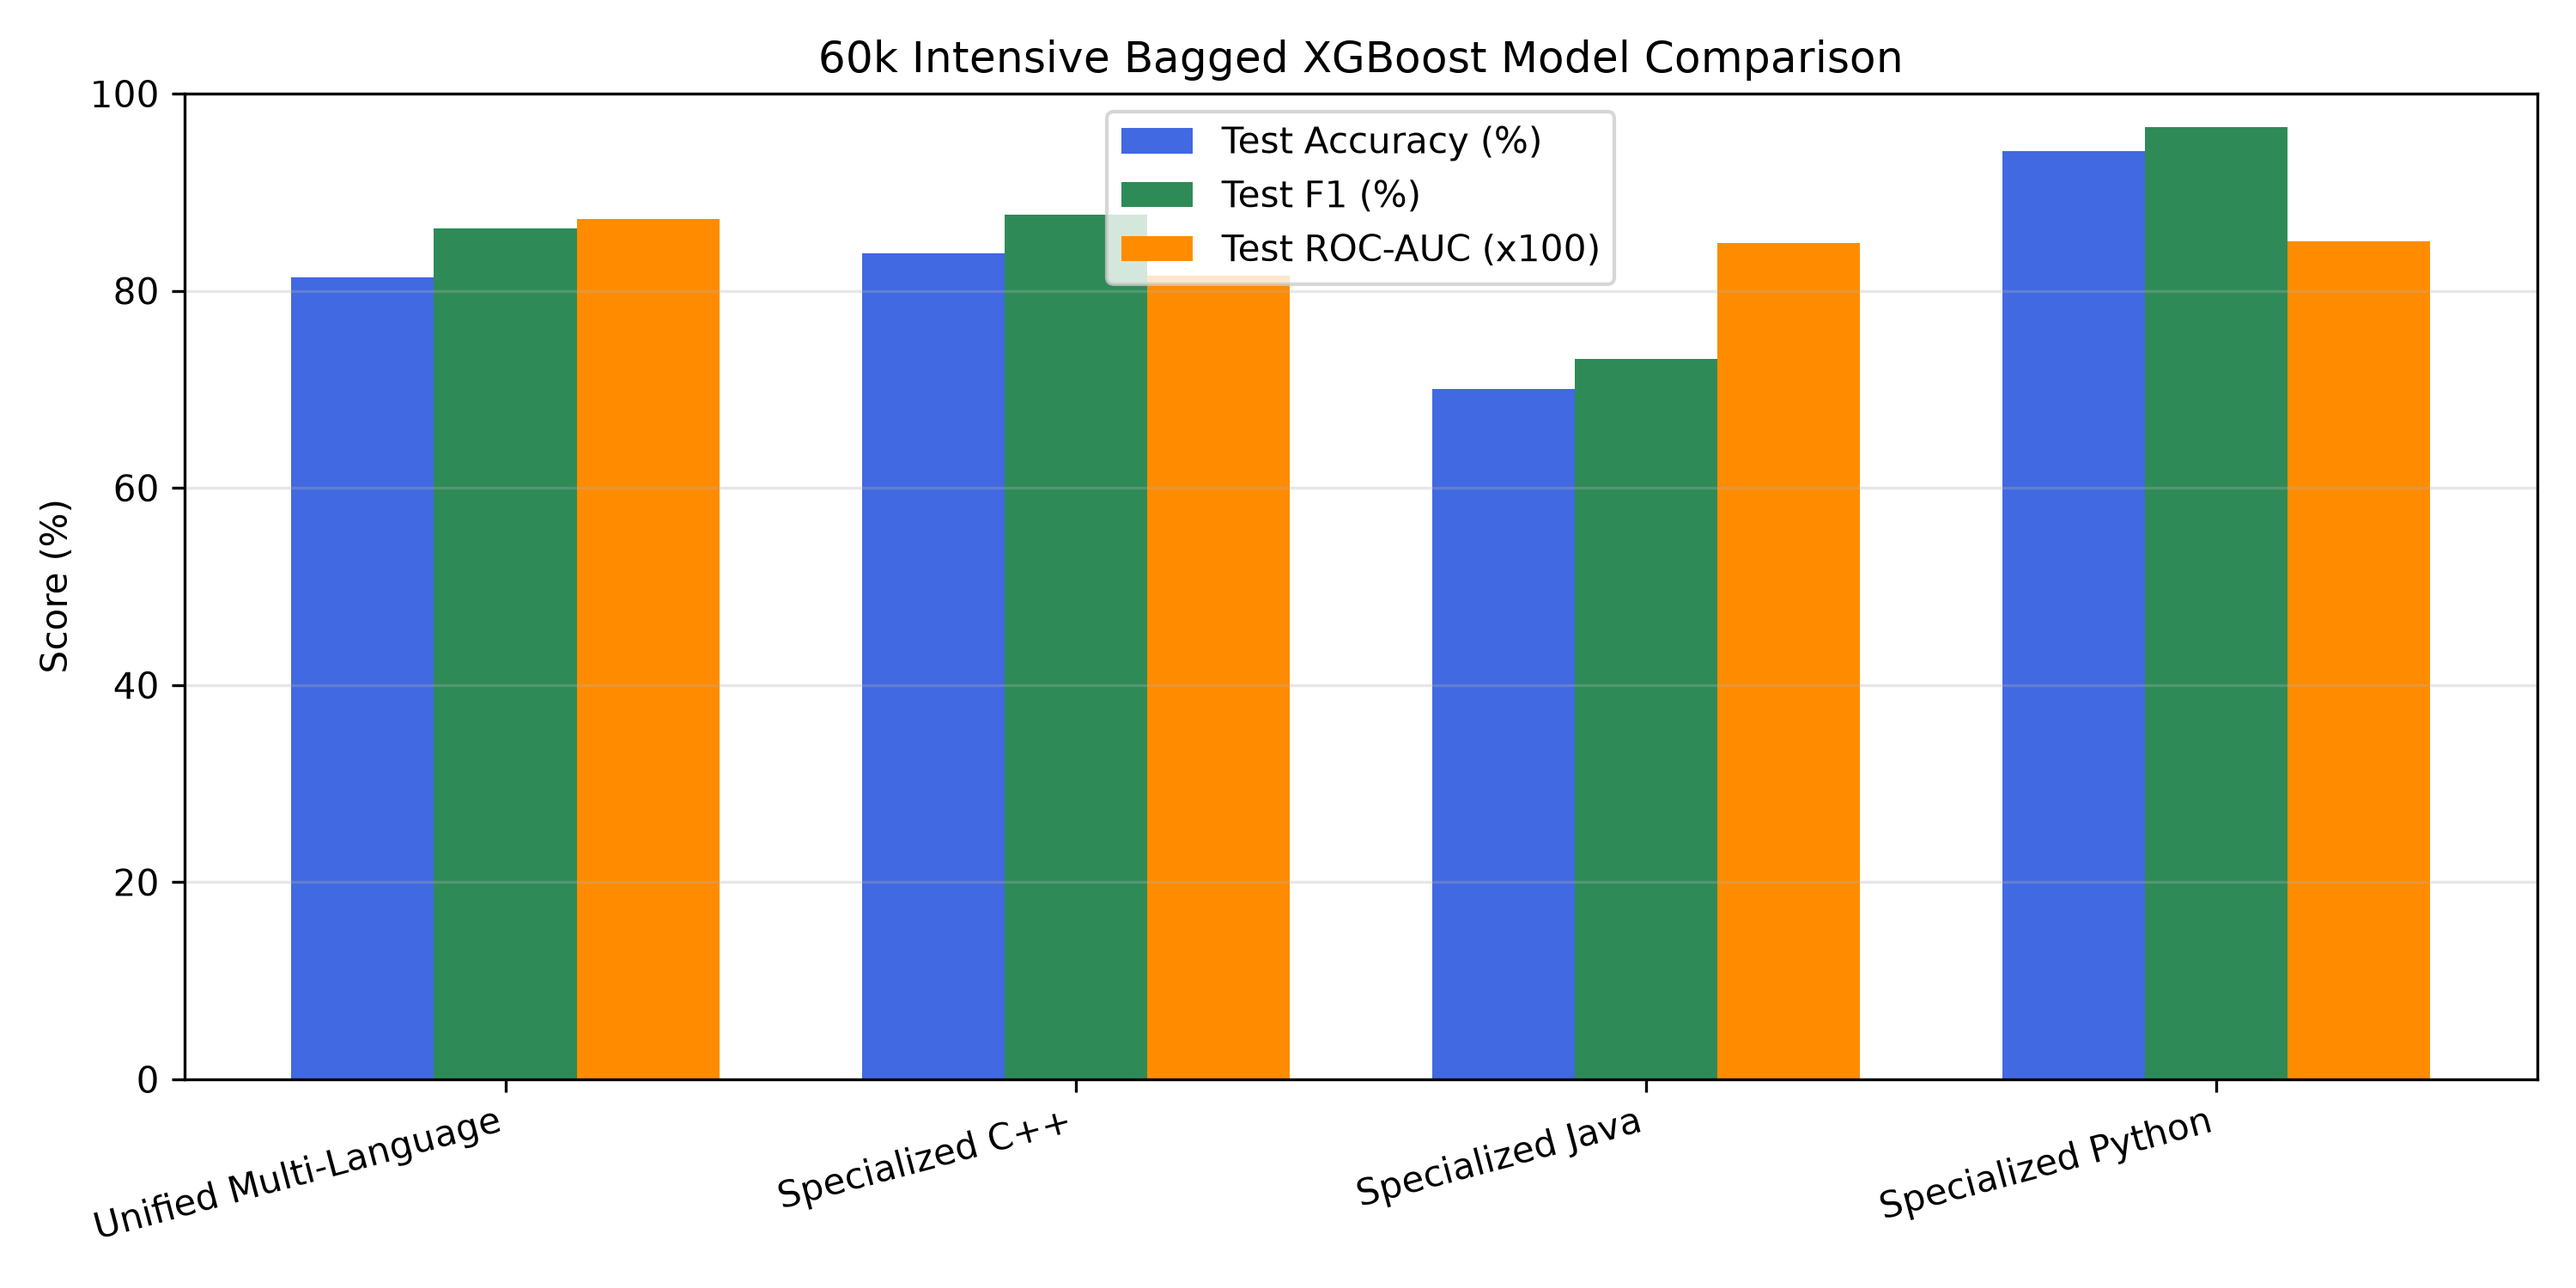
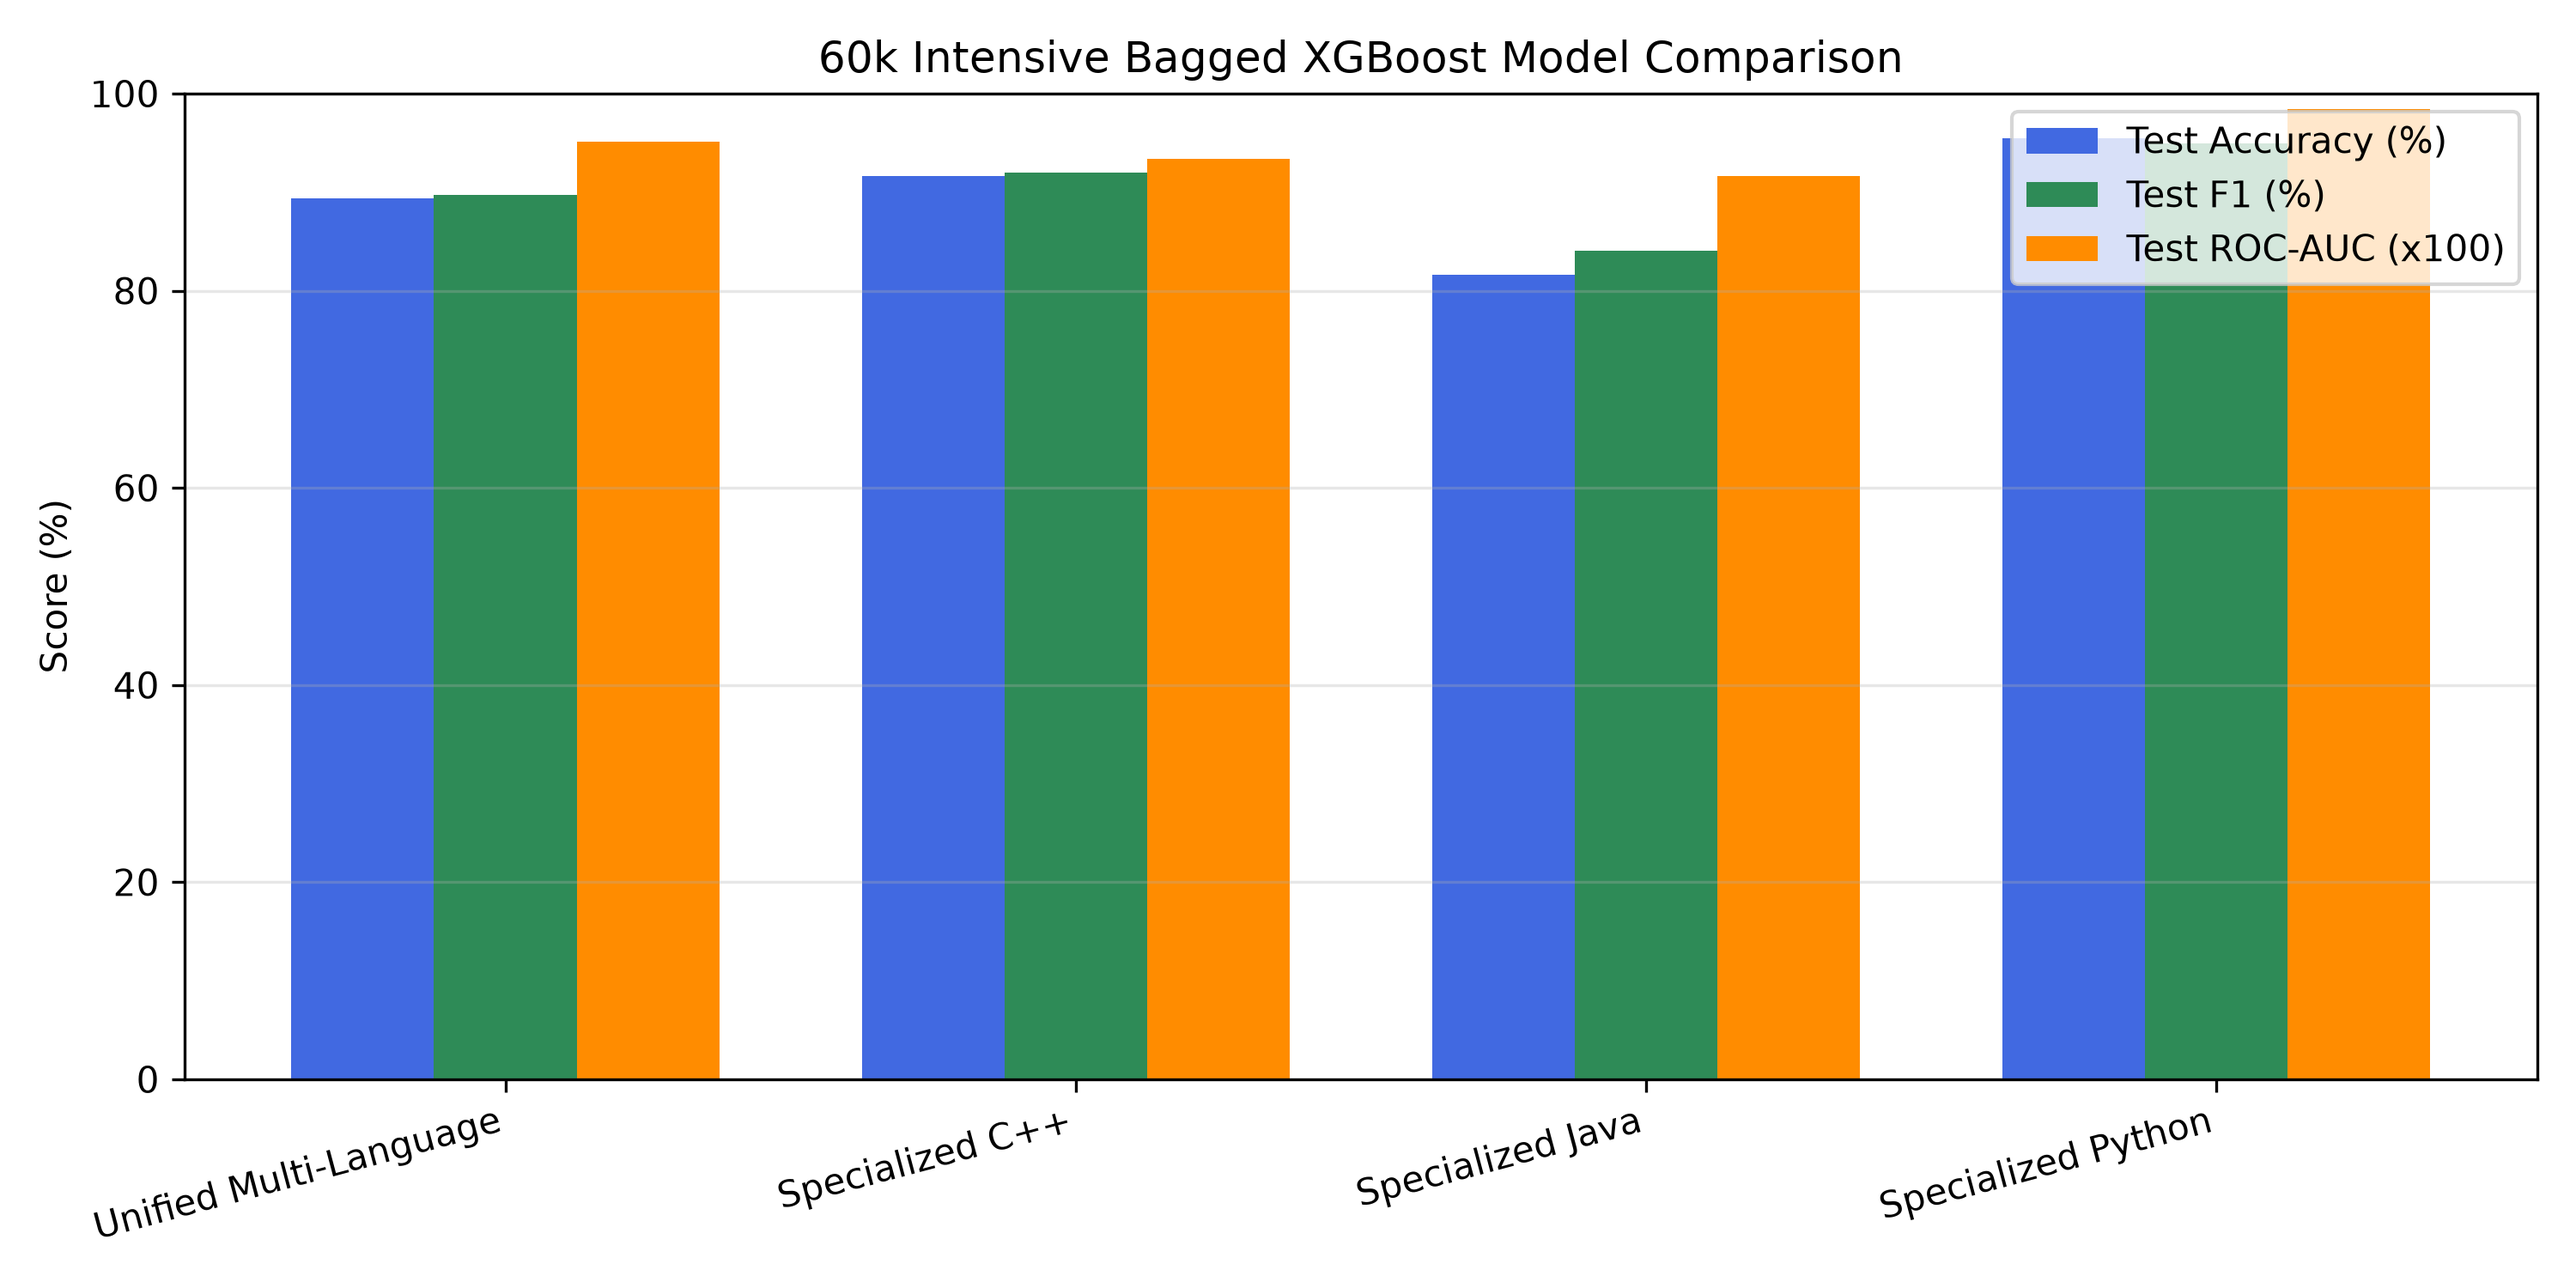
feat: implement intensive 5-seed bagged ensemble training pipeline with Treelite support for 60k dataset evaluation

Changed region(s): [[0.31, 0.092, 0.744, 0.3067], [0.775, 0.0613, 0.992, 0.2453], [0.093, 0.092, 0.279, 0.2147]]

diff --git a/model-training/train_intensive_bagged_ensemble.py b/model-training/train_intensive_bagged_ensemble.py
@@ -23,12 +23,13 @@ from sklearn.metrics import (
     classification_report,
     confusion_matrix,
     f1_score,
+    precision_recall_curve,
     precision_score,
     recall_score,
     roc_auc_score,
     roc_curve,
 )
-from sklearn.model_selection import GroupKFold, GroupShuffleSplit
+from sklearn.model_selection import GroupKFold, GroupShuffleSplit, StratifiedGroupKFold
 import treelite
 import treelite.frontend
 import xgboost as xgb
@@ -134,11 +135,12 @@ def get_feature_cols(include_language: bool = True) -> list[str]:
 
 
 def find_optimal_threshold(y_true: np.ndarray, y_prob: np.ndarray) -> float:
-    fpr, tpr, thresholds = roc_curve(y_true, y_prob)
-    j_scores = tpr - fpr
-    best_idx = np.argmax(j_scores)
-    best_thresh = float(thresholds[best_idx])
-    return max(0.2, min(0.8, best_thresh))
+    """Find threshold that maximizes F1 score on validation set."""
+    precision, recall, thresholds = precision_recall_curve(y_true, y_prob)
+    f1_scores = 2 * (precision * recall) / np.maximum(precision + recall, 1e-8)
+    best_idx = np.argmax(f1_scores)
+    best_thresh = float(thresholds[min(best_idx, len(thresholds) - 1)])
+    return max(0.35, min(0.65, best_thresh))
 
 
 def train_bagged_ensemble(
@@ -156,7 +158,7 @@ def train_bagged_ensemble(
 
     unique_groups = len(np.unique(groups_train))
     n_splits = min(5, unique_groups)
-    cv_splitter = GroupKFold(n_splits=n_splits)
+    cv_splitter = StratifiedGroupKFold(n_splits=n_splits, shuffle=True, random_state=42)
 
     # Compute class weight
     neg_count = (y_train == 0).sum()
@@ -207,6 +209,10 @@ def train_bagged_ensemble(
     print(f"5-Fold CV Ensemble (Optimal Thresh={opt_threshold:.3f}): Acc={cv_acc:.4f}, F1={cv_f1:.4f}, ROC-AUC={cv_roc:.4f}")
 
     # Held-Out Unseen Test Problem Evaluation
+    test_preds_std = (test_probs_all >= 0.50).astype(int)
+    test_acc_std = accuracy_score(y_test, test_preds_std)
+    test_f1_std = f1_score(y_test, test_preds_std, zero_division=0)
+
     test_preds_opt = (test_probs_all >= opt_threshold).astype(int)
     test_acc_opt = accuracy_score(y_test, test_preds_opt)
     test_prec = precision_score(y_test, test_preds_opt, zero_division=0)
@@ -215,11 +221,12 @@ def train_bagged_ensemble(
     test_roc = roc_auc_score(y_test, test_probs_all) if len(np.unique(y_test)) > 1 else 1.0
 
     print(f"\nHeld-Out Test Results (Unseen Problems):")
-    print(f"  Accuracy (Optimized {opt_threshold:.2f}): {test_acc_opt:.4f}")
-    print(f"  Precision               : {test_prec:.4f}")
-    print(f"  Recall                  : {test_rec:.4f}")
-    print(f"  F1-Score                : {test_f1_opt:.4f}")
-    print(f"  ROC-AUC                 : {test_roc:.4f}")
+    print(f"  Accuracy (Standard 0.50)  : {test_acc_std:.4f} (F1: {test_f1_std:.4f})")
+    print(f"  Accuracy (Calibrated {opt_threshold:.2f}): {test_acc_opt:.4f}")
+    print(f"  Precision                  : {test_prec:.4f}")
+    print(f"  Recall                     : {test_rec:.4f}")
+    print(f"  F1-Score                   : {test_f1_opt:.4f}")
+    print(f"  ROC-AUC                    : {test_roc:.4f}")
 
     # Save Primary Model & Bagged Ensemble
     safe_name = name.lower().replace(" ", "_").replace("+", "p")
@@ -273,10 +280,10 @@ def main():
 
     df_full = pd.concat([df, lang_dummies], axis=1)
 
-    # 80/20 Problem-Grouped Split
+    # Stratified 80/20 Problem-Grouped Split (Guarantees class balance while isolating problems)
     groups = df_full["problem_id"]
-    gss = GroupShuffleSplit(n_splits=1, test_size=0.2, random_state=args.seed)
-    train_idx, test_idx = next(gss.split(df_full, df_full["target"], groups))
+    sgkf = StratifiedGroupKFold(n_splits=5, shuffle=True, random_state=args.seed)
+    train_idx, test_idx = next(sgkf.split(df_full, df_full["target"], groups))
 
     df_train = df_full.iloc[train_idx].copy()
     df_test = df_full.iloc[test_idx].copy()
